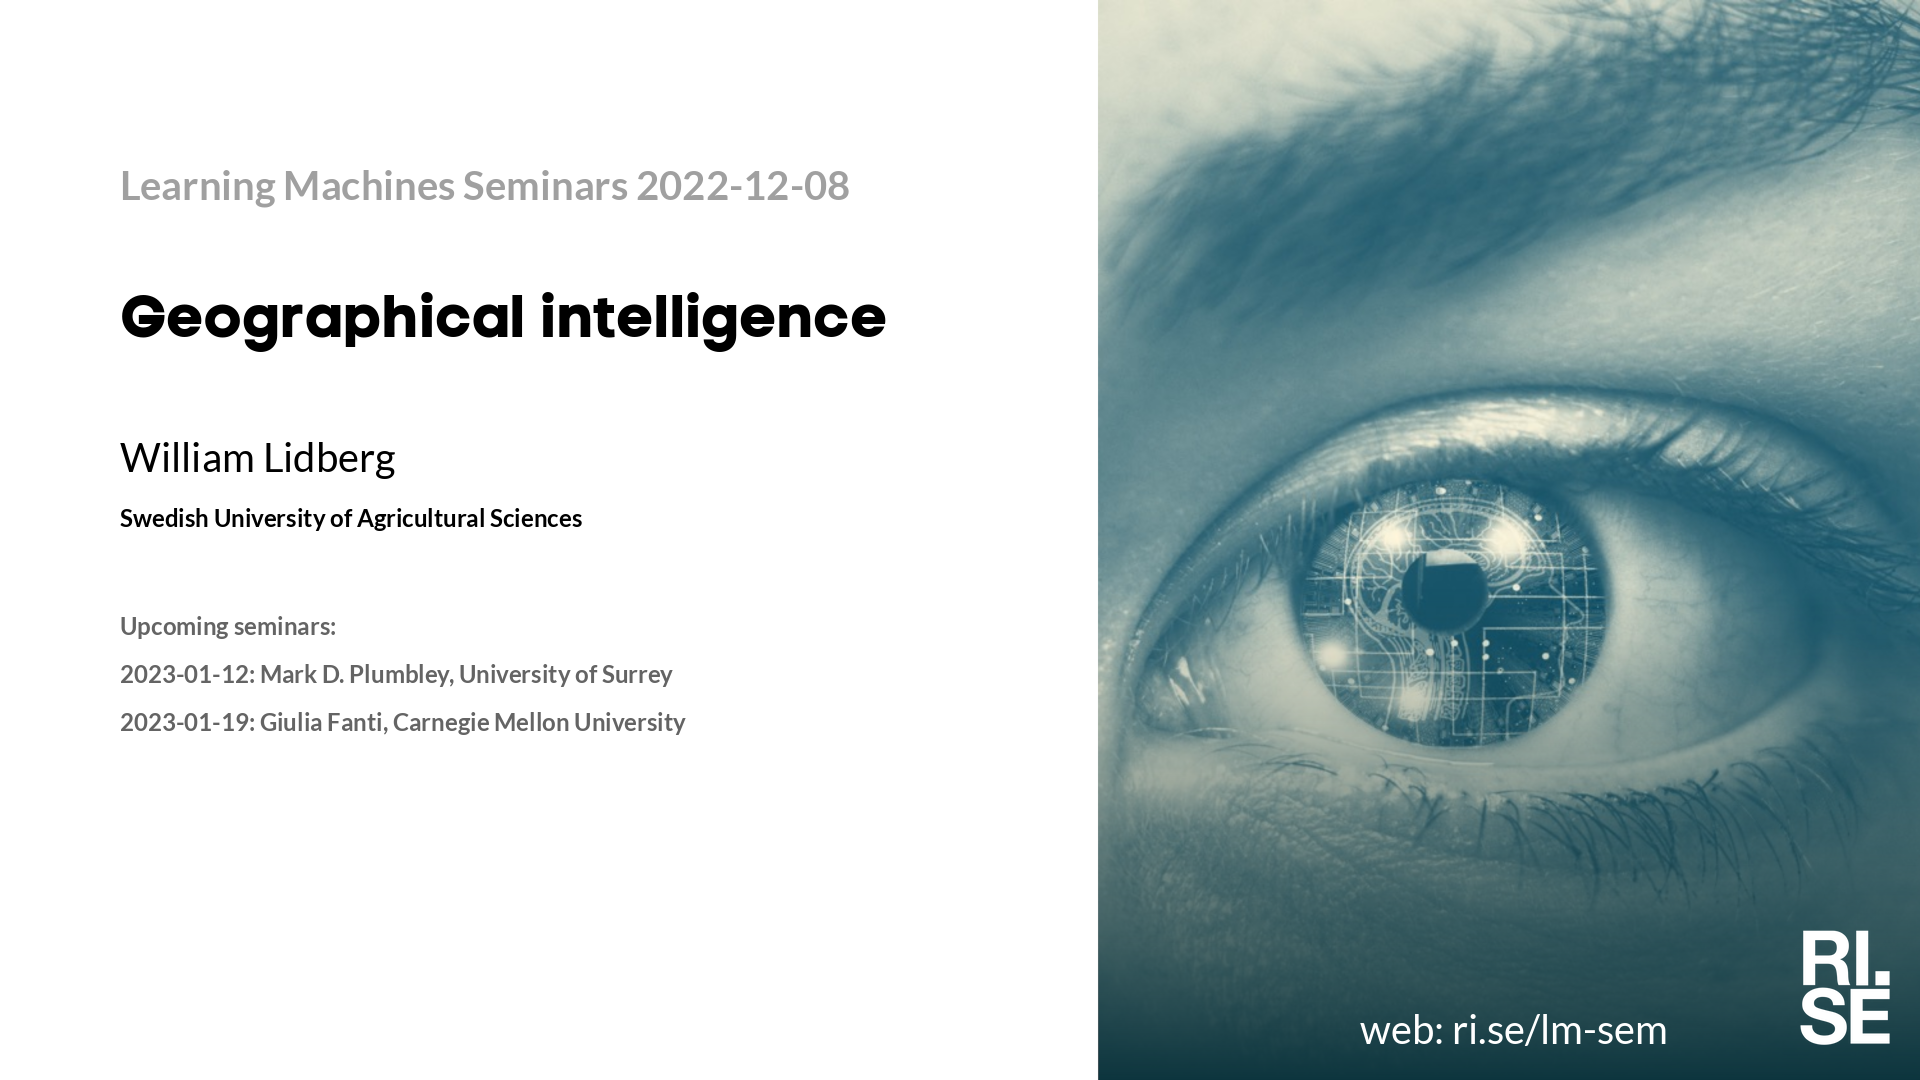
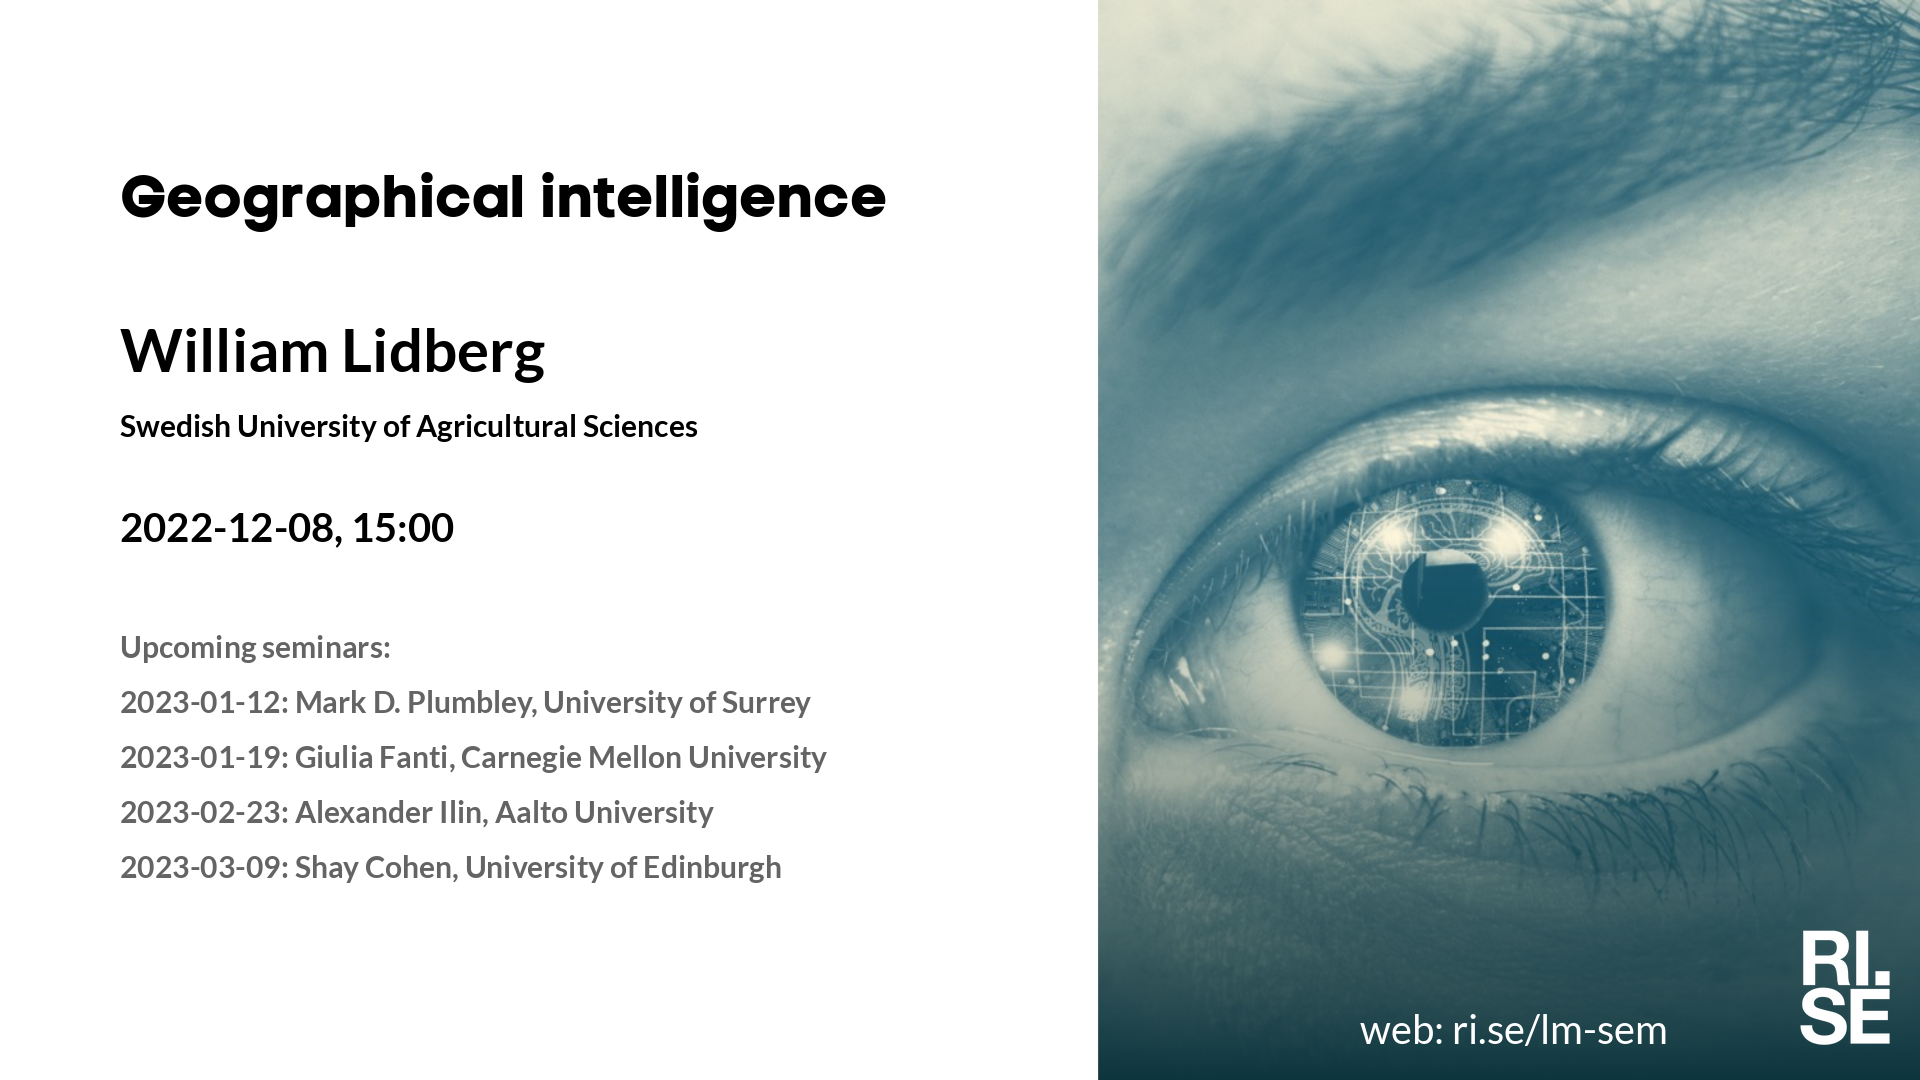
Updated plan on web site.

diff --git a/lm/index.md b/lm/index.md
@@ -1,7 +1,7 @@
 <style type="text/css" scoped>
 td, th {border: 1px solid #ccc; padding: 0.6em;}
 table {border-collapse: collapse;}
-</style># Learning Machines Plan 2022-12-04
+</style># Learning Machines Plan 2022-12-05
 
 | date | speaker                                   | photo | shareable | meeting backdrop | youtube thumbnail | comment        |
 | ---- | ----------------------------------------- | ----- | ----- | ----- | ----- | -------------- |

diff --git a/lm/2022-12-08.md b/lm/2022-12-08.md
@@ -18,6 +18,8 @@ With satellite maps and Google Maps, it's easy to think we have all the maps we 
 
 * 2023-01-12: Mark D. Plumbley, University of Surrey
 * 2023-01-19: Giulia Fanti, Carnegie Mellon University
+* 2023-02-23: Alexander Ilin, Aalto University
+* 2023-03-09: Shay Cohen, University of Edinburgh
 
 More information and coming seminars: [https://ri.se/lm-sem](https://ri.se/lm-sem)
 
